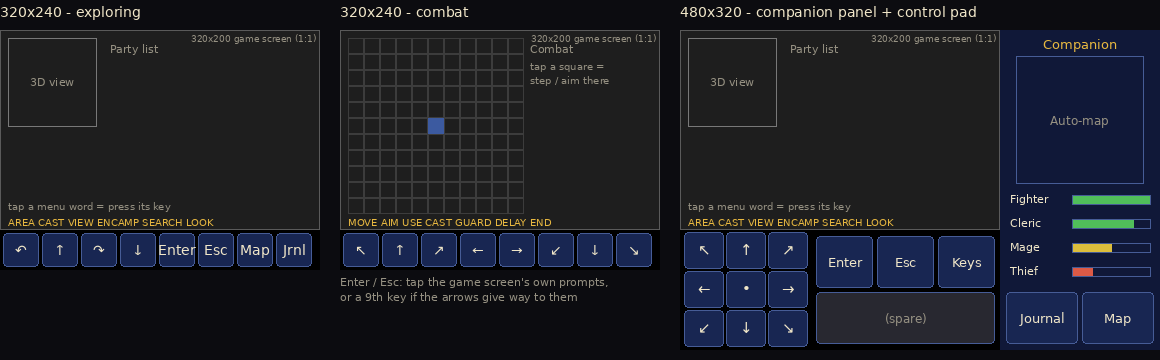
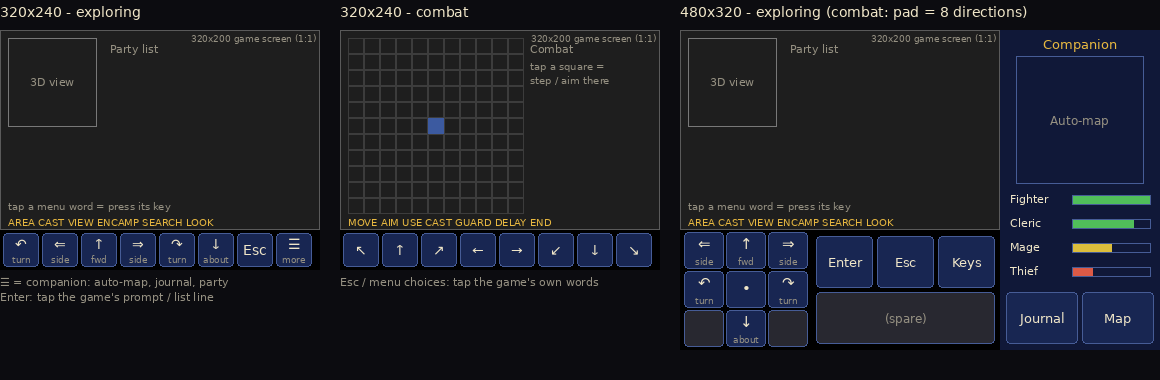
Side-steps in the controls, copy protection skipped, other Gold Box games planned
Claude-Session: https://claude.ai/code/session_018ed2o8fk2hQtkjRm2VaGSw

diff --git a/docs/SPEC.md b/docs/SPEC.md
@@ -140,13 +140,23 @@ So the journal is shown as **pictures of the entries**, not text:
   only. Same rule as the DAX files.
 - Each game's journal gets its own table once its GOG PDF has been looked at.
 
-## 8. Open decisions (Tom's)
+## 8. Copy protection (Tom, 2026-10-06)
 
-1. **Controls**: confirm the layout in `docs/controls-proposal.png`.
-2. **Copy protection** (code wheel / journal word checks): skip it, since the
-   player must already own the game files?
+Skipped. The player supplies their own game files, so the journal word
+checks / code wheel questions are never asked; when the game's code reaches
+one, the engine carries on as if it was answered correctly.
 
-## 9. Engine UI rules (carried over from CYD-Classic-Games)
+## 9. Other Gold Box games (later)
+
+Same engine family, same bring-your-own-game rules: the Krynn games
+(Champions, Death Knights, Dark Queen), the Savage Frontier games (Gateway,
+Treasures) and Forgotten Realms Unlimited Adventures (FRUA - playing its
+user-made designs). They differ in file formats (later games add VGA
+pictures), scripts and rules. The engine keeps everything game-specific
+behind a per-game profile from the start, so they can be added to this repo
+after the four Pool of Radiance series games. Not started.
+
+## 10. Engine UI rules (carried over from CYD-Classic-Games)
 
 - Big targets, stylus taps (Tom uses a DS Lite stylus, firm presses). A tap acts
   on release, at the point where the stylus came down. No drags or swipes.

diff --git a/CLAUDE.md b/CLAUDE.md
@@ -29,7 +29,12 @@ HAL, CI, flasher and UI rules come from there; copy from it freely.
   (their DOS files and their journal PDFs).
 - Controls: tap what the game shows (menu words, list lines, combat squares);
   keys only for what isn't on screen - one row of 8 under the game on
-  320x240, a 3x3 pad + keys under it on 480x320 (SPEC section 4).
+  320x240, a 3x3 pad + keys under it on 480x320 (SPEC section 4). Exploring
+  keys include Side-step Left / Right (an engine addition; same checks as a
+  step into that square).
+- Copy protection: skipped - never asked, treated as answered.
+- Later: Krynn, Savage Frontier and FRUA in this repo, after the four games.
+  Keep game-specific code behind a per-game profile so they fit.
 - 480x320: the game screen stays 1:1 (never scaled for play) with a Gold Box
   Companion panel (auto-map, party HP, spells) to its right; controls below.
 - Build order: Curse of the Azure Bonds first, then Pool of Radiance, Silver
